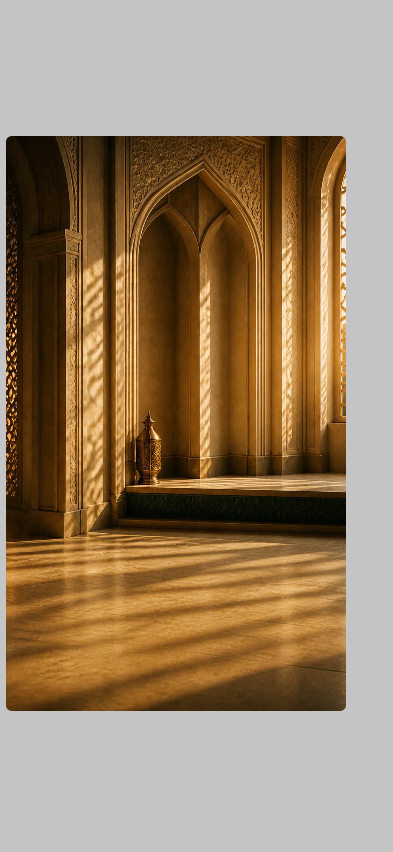
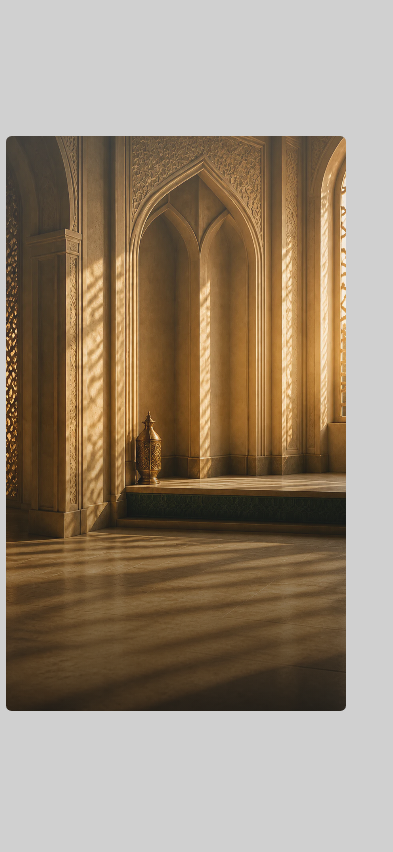
Align immersive Android home cover with reference framing

diff --git a/app/src/main/kotlin/com/starception/submission/feature/prayertimes/PrayerTimesScreen.kt b/app/src/main/kotlin/com/starception/submission/feature/prayertimes/PrayerTimesScreen.kt
@@ -3018,39 +3018,36 @@ fun PrayerTimesScreen(
                 val dynamicTopInset = statusBarInset * (1f - (syncState.wobbleIntensity * 2f).coerceAtMost(1f))
                 val darkHome = LocalDarkTheme.current
                 var coverPage by rememberSaveable { mutableIntStateOf(0) }
-                val nightArtwork = prayerTimes?.let {
-                    currentTime.isBefore(it.sunrise) || !currentTime.isBefore(it.maghrib)
-                } ?: (currentTime.hour < 6 || currentTime.hour >= 18)
                 Box(Modifier.fillMaxSize().background(if (darkHome) Color(0xFF0C110F) else Color.White)) {
                 if (!outerIsLandscape && darkHome) {
                     Image(
-                        painter = composeArtworkPainter(homeCoverArtwork(coverPage, nightArtwork)),
+                        painter = composeArtworkPainter(homeCoverArtwork(coverPage, darkHome)),
                         contentDescription = null,
                         contentScale = ContentScale.Crop,
                         modifier = Modifier.fillMaxSize(),
                     )
                     Box(Modifier.fillMaxSize().background(Brush.verticalGradient(
-                        0f to Color(0xFF071C30).copy(alpha = .48f),
-                        .50f to Color(0xFF0B1D2C).copy(alpha = .78f),
+                        0f to Color(0xFF071C30).copy(alpha = .20f),
+                        .50f to Color(0xFF0B1D2C).copy(alpha = .42f),
                         1f to Color(0xFF0C110F).copy(alpha = .97f),
                     )))
                 } else if (!outerIsLandscape) {
-                    // The light home keeps the same prayer identity as a soft
-                    // atmospheric layer; the readable canvas remains white.
+                    // Let the scene reach behind the system status bar and
+                    // toolbar, then dissolve it into the white lower feed.
                     Box(Modifier.fillMaxSize().background(Brush.verticalGradient(
                         0f to Color(0xFFFCFBFF),
                         .40f to Color(0xFFF8F7FC),
                         1f to Color.White,
                     )))
                     Image(
-                        painter = composeArtworkPainter(homeCoverArtwork(coverPage, nightArtwork)),
+                        painter = composeArtworkPainter(homeCoverArtwork(coverPage, darkHome)),
                         contentDescription = null,
                         contentScale = ContentScale.Crop,
-                        modifier = Modifier.fillMaxSize().graphicsLayer { alpha = 0.11f },
+                        modifier = Modifier.fillMaxSize(),
                     )
                     Box(Modifier.fillMaxSize().background(Brush.verticalGradient(
-                        0f to Color.White.copy(alpha = .42f),
-                        .48f to Color.White.copy(alpha = .87f),
+                        0f to Color.White.copy(alpha = .45f),
+                        .48f to Color.White.copy(alpha = .45f),
                         1f to Color.White,
                     )))
                 }
@@ -3672,7 +3669,7 @@ fun PrayerTimesScreen(
                                                     showCompassPopup = true
                                                 },
                                                 timeOffsets = storedOffsets,
-                                                portraitStripHeight = (configuration.screenHeightDp.dp * 0.72f)
+                                                portraitStripHeight = (configuration.screenHeightDp.dp * 0.69f)
                                                     .coerceIn(450.dp, 640.dp)
                                                     // Leave a real travel distance for the
                                                     // card-to-reader expansion on short phones.
@@ -3724,8 +3721,9 @@ fun PrayerTimesScreen(
                                             ) {
                                                 ImmersiveHomeCover(
                                                     selectedPage = coverPage,
-                                                    isNight = nightArtwork,
                                                     isDarkTheme = darkHome,
+                                                    sceneHeight = configuration.screenHeightDp.dp,
+                                                    sceneTopInset = dynamicTopInset + 56.dp,
                                                     nextPrayerName = PrayerTimeHelpers
                                                         .getNextPrayer(currentTime, prayerTimes)?.first.orEmpty(),
                                                     nextPrayerCountdown = PrayerTimeHelpers
@@ -3740,6 +3738,31 @@ fun PrayerTimesScreen(
                                         }
 
                                         if (!insightTileImmersive) {
+                                            Column(
+                                                modifier = Modifier.fillMaxWidth()
+                                                    .clickable {
+                                                        coverPage = 2
+                                                        feedPageRequest = 2 to ((feedPageRequest?.second ?: 0) + 1)
+                                                    }
+                                                    .padding(horizontal = 24.dp, vertical = 20.dp),
+                                                verticalArrangement = Arrangement.spacedBy(10.dp),
+                                            ) {
+                                                Box(
+                                                    Modifier.fillMaxWidth().height(1.dp).background(
+                                                        MaterialTheme.colorScheme.onBackground.copy(alpha = .22f),
+                                                    ),
+                                                )
+                                                Text(
+                                                    "TODAY'S READING",
+                                                    style = MaterialTheme.typography.labelSmall,
+                                                    color = MaterialTheme.colorScheme.onBackground.copy(alpha = .72f),
+                                                )
+                                                Text(
+                                                    "Spend a moment with the Quran",
+                                                    style = MaterialTheme.typography.titleLarge,
+                                                    color = MaterialTheme.colorScheme.onBackground,
+                                                )
+                                            }
                                             Spacer(Modifier.height(20.dp))
                                             HomeArtworkRail { card, source ->
                                                 if (morphRequest != null || insightTileExpanded) return@HomeArtworkRail

diff --git a/app/src/main/kotlin/com/starception/submission/feature/prayertimes/ImmersiveHomeCover.kt b/app/src/main/kotlin/com/starception/submission/feature/prayertimes/ImmersiveHomeCover.kt
@@ -5,10 +5,13 @@ import androidx.compose.foundation.background
 import androidx.compose.foundation.clickable
 import androidx.compose.foundation.layout.Arrangement
 import androidx.compose.foundation.layout.Box
+import androidx.compose.foundation.layout.BoxWithConstraints
 import androidx.compose.foundation.layout.Column
 import androidx.compose.foundation.layout.Row
 import androidx.compose.foundation.layout.fillMaxSize
 import androidx.compose.foundation.layout.fillMaxWidth
+import androidx.compose.foundation.layout.offset
+import androidx.compose.foundation.layout.requiredHeight
 import androidx.compose.foundation.layout.padding
 import androidx.compose.foundation.layout.size
 import androidx.compose.foundation.pager.HorizontalPager
@@ -22,6 +25,7 @@ import androidx.compose.runtime.rememberCoroutineScope
 import androidx.compose.ui.Alignment
 import androidx.compose.ui.Modifier
 import androidx.compose.ui.draw.clip
+import androidx.compose.ui.draw.clipToBounds
 import androidx.compose.ui.graphics.Brush
 import androidx.compose.ui.graphics.Color
 import androidx.compose.ui.layout.ContentScale
@@ -31,6 +35,7 @@ import androidx.compose.ui.text.font.FontWeight
 import androidx.compose.ui.text.style.TextAlign
 import androidx.compose.ui.text.style.TextOverflow
 import androidx.compose.ui.unit.dp
+import androidx.compose.ui.unit.Dp
 import androidx.compose.ui.unit.sp
 import com.starception.submission.core.images.resources.Res
 import com.starception.submission.core.images.resources.insight_prayer_background
@@ -43,8 +48,8 @@ import org.jetbrains.compose.resources.DrawableResource
 import org.jetbrains.compose.resources.painterResource
 import kotlinx.coroutines.launch
 
-internal fun homeCoverArtwork(page: Int, isNight: Boolean): DrawableResource = when (page) {
-    0 -> if (isNight) Res.drawable.prayer_now_insight_night else Res.drawable.prayer_now_insight_day
+internal fun homeCoverArtwork(page: Int, isDarkTheme: Boolean): DrawableResource = when (page) {
+    0 -> if (isDarkTheme) Res.drawable.prayer_now_insight_night else Res.drawable.prayer_now_insight_day
     1 -> Res.drawable.insight_prayer_background
     2 -> Res.drawable.insight_quran_background
     3 -> Res.drawable.insight_qibla_background
@@ -55,8 +60,9 @@ internal fun homeCoverArtwork(page: Int, isNight: Boolean): DrawableResource = w
 @Composable
 internal fun ImmersiveHomeCover(
     selectedPage: Int,
-    isNight: Boolean,
     isDarkTheme: Boolean,
+    sceneHeight: Dp,
+    sceneTopInset: Dp,
     nextPrayerName: String,
     nextPrayerCountdown: String,
     onSelectionChanged: (Int) -> Unit,
@@ -70,7 +76,11 @@ internal fun ImmersiveHomeCover(
     LaunchedEffect(pagerState.settledPage) { onSelectionChanged(pagerState.settledPage) }
     val ink = if (isDarkTheme) Color.White else Color(0xFF211C2B)
     val secondaryInk = ink.copy(alpha = if (isDarkTheme) .80f else .72f)
-    Box(Modifier.fillMaxSize()) {
+    BoxWithConstraints(Modifier.fillMaxSize()) {
+        // The reference leaves breathing room between the recommendation and
+        // the lower feed; anchoring both to the tile bottom puts them too low.
+        val copyBottom = maxHeight * .245f
+        val indicatorBottom = maxHeight * .20f
         HorizontalPager(state = pagerState, modifier = Modifier.fillMaxSize()) { page ->
             val (eyebrow, title, detail) = when (page) {
                 0 -> Triple("YOUR DAY", "A moment to pause",
@@ -81,12 +91,15 @@ internal fun ImmersiveHomeCover(
                 3 -> Triple("QIBLA", "Turn toward Makkah", "Find your direction")
                 else -> Triple("FOR THIS MOMENT", "A thought for today", "Explore a grounded suggestion")
             }
-            Box(Modifier.fillMaxSize().clickable { onOpen(page) }) {
+            Box(Modifier.fillMaxSize().clipToBounds().clickable { onOpen(page) }) {
                 Image(
-                    painter = painterResource(homeCoverArtwork(page, isNight)),
+                    painter = painterResource(homeCoverArtwork(page, isDarkTheme)),
                     contentDescription = null,
                     contentScale = ContentScale.Crop,
-                    modifier = Modifier.fillMaxSize(),
+                    // Match the image's crop above the reader, behind the toolbar.
+                    // Cropping each strip independently creates a visible seam.
+                    modifier = Modifier.fillMaxWidth().requiredHeight(sceneHeight)
+                        .offset(y = -sceneTopInset),
                 )
                 Box(Modifier.fillMaxSize().background(
                     if (isDarkTheme) Brush.verticalGradient(
@@ -101,7 +114,7 @@ internal fun ImmersiveHomeCover(
                 ))
                 Column(
                     Modifier.align(Alignment.BottomCenter).fillMaxWidth()
-                        .padding(start = 24.dp, end = 24.dp, bottom = 73.dp),
+                        .padding(start = 24.dp, end = 24.dp, bottom = copyBottom),
                     horizontalAlignment = Alignment.CenterHorizontally,
                     verticalArrangement = Arrangement.spacedBy(7.dp),
                 ) {
@@ -134,7 +147,7 @@ internal fun ImmersiveHomeCover(
             }
         }
         Row(
-            Modifier.align(Alignment.BottomCenter).padding(bottom = 38.dp),
+            Modifier.align(Alignment.BottomCenter).padding(bottom = indicatorBottom),
             horizontalArrangement = Arrangement.spacedBy(7.dp),
             verticalAlignment = Alignment.CenterVertically,
         ) {

diff --git a/app/src/testDemo/kotlin/com/starception/submission/feature/prayertimes/ImmersiveHomeCoverTest.kt b/app/src/testDemo/kotlin/com/starception/submission/feature/prayertimes/ImmersiveHomeCoverTest.kt
@@ -1,0 +1,58 @@
+package com.starception.submission.feature.prayertimes
+
+import android.app.Application
+import androidx.compose.foundation.layout.Box
+import androidx.compose.foundation.layout.fillMaxWidth
+import androidx.compose.foundation.layout.height
+import androidx.compose.material3.MaterialTheme
+import androidx.compose.material3.darkColorScheme
+import androidx.compose.runtime.CompositionLocalProvider
+import androidx.compose.ui.Modifier
+import androidx.compose.ui.platform.LocalInspectionMode
+import androidx.compose.ui.test.junit4.createComposeRule
+import androidx.compose.ui.test.onNodeWithText
+import androidx.compose.ui.test.onRoot
+import androidx.compose.ui.test.performClick
+import androidx.compose.ui.unit.dp
+import com.github.takahirom.roborazzi.captureRoboImage
+import org.junit.Assert.assertEquals
+import org.junit.Rule
+import org.junit.Test
+import org.junit.runner.RunWith
+import org.robolectric.RobolectricTestRunner
+import org.robolectric.annotation.Config
+import org.robolectric.annotation.GraphicsMode
+
+@RunWith(RobolectricTestRunner::class)
+@Config(application = Application::class, qualifiers = "w393dp-h852dp", sdk = [35])
+@GraphicsMode(GraphicsMode.Mode.NATIVE)
+class ImmersiveHomeCoverTest {
+    @get:Rule val compose = createComposeRule()
+
+    @OptIn(org.jetbrains.compose.resources.ExperimentalResourceApi::class)
+    @Test fun coverOpensTheMatchingReader() {
+        var openedPage = -1
+        compose.setContent {
+            CompositionLocalProvider(LocalInspectionMode provides true) {
+                org.jetbrains.compose.resources.PreviewContextConfigurationEffect()
+            }
+            MaterialTheme(colorScheme = darkColorScheme()) {
+                Box(Modifier.fillMaxWidth().height(588.dp)) {
+                    ImmersiveHomeCover(
+                        selectedPage = 0,
+                        isDarkTheme = true,
+                        sceneHeight = 852.dp,
+                        sceneTopInset = 80.dp,
+                        nextPrayerName = "Asr",
+                        nextPrayerCountdown = "1h 41m",
+                        onSelectionChanged = {},
+                        onOpen = { openedPage = it },
+                    )
+                }
+            }
+        }
+        compose.onRoot().captureRoboImage("src/testDemo/screenshots/immersive_home_cover.png")
+        compose.onNodeWithText("A moment to pause").performClick()
+        assertEquals(0, openedPage)
+    }
+}

diff --git a/app/src/main/kotlin/com/starception/submission/feature/prayertimes/SwipeableBigTiles.kt b/app/src/main/kotlin/com/starception/submission/feature/prayertimes/SwipeableBigTiles.kt
@@ -1454,11 +1454,17 @@ internal fun SwipeableBigTiles(
     var isSalahHadithLoading by remember { mutableStateOf(true) }
     var interactionEpoch by remember { mutableIntStateOf(0) }
     var isAutoAdvancing by remember { mutableStateOf(false) }
-    // Home intentionally reopens on the last expanded insight. The expansion
-    // target is now resolved once, so restoring this state is stable.
-    var expandedLogicalPage by rememberSaveable { mutableStateOf(persistedExpandedPage) }
-    var expansionExtent by rememberSaveable {
-        mutableFloatStateOf(if (persistedExpandedPage != null) 0.35f else 0f)
+    // The immersive home must always land on its artwork cover. Restoring an
+    // old expanded page hides that cover and reopens the legacy reader at launch.
+    var expandedLogicalPage by if (immersiveHome) {
+        remember { mutableStateOf<Int?>(null) }
+    } else {
+        rememberSaveable { mutableStateOf(persistedExpandedPage) }
+    }
+    var expansionExtent by if (immersiveHome) {
+        remember { mutableFloatStateOf(0f) }
+    } else {
+        rememberSaveable { mutableFloatStateOf(if (persistedExpandedPage != null) 0.35f else 0f) }
     }
     LaunchedEffect(collapseExpandedTileRequest) {
         // The host hands the enlarged tile's space to another section (for
@@ -1472,12 +1478,11 @@ internal fun SwipeableBigTiles(
     }
     LaunchedEffect(expandedLogicalPage) {
         onExpandedPageChange?.invoke(expandedLogicalPage)
-        carouselPreferences.edit()
-            .apply {
-                expandedLogicalPage?.let { putInt(INSIGHT_EXPANDED_PAGE_KEY, it) }
-                    ?: remove(INSIGHT_EXPANDED_PAGE_KEY)
-            }
-            .apply()
+        carouselPreferences.edit().apply {
+            if (immersiveHome) remove(INSIGHT_EXPANDED_PAGE_KEY)
+            else expandedLogicalPage?.let { putInt(INSIGHT_EXPANDED_PAGE_KEY, it) }
+                ?: remove(INSIGHT_EXPANDED_PAGE_KEY)
+        }.apply()
     }
     var pendingPrayerUndo by remember { mutableStateOf<PrayerUndoState?>(null) }
     val autoAdvanceProgress = remember { Animatable(0f) }

diff --git a/app/src/testDemo/kotlin/com/starception/submission/feature/prayertimes/HomeArtworkRailTest.kt b/app/src/testDemo/kotlin/com/starception/submission/feature/prayertimes/HomeArtworkRailTest.kt
@@ -48,8 +48,8 @@ class HomeArtworkRailTest {
             }
             MaterialTheme(colorScheme = darkColorScheme()) {
                 Column(Modifier.fillMaxSize().background(Color(0xFF0C110F)).padding(24.dp)) {
-                    HomeArtworkRail { page, _, bounds ->
-                        selected = page
+                    HomeArtworkRail { card, bounds ->
+                        selected = card.page
                         assertTrue(bounds.width > 0f && bounds.height > 0f)
                     }
                 }
@@ -73,9 +73,12 @@ class HomeArtworkRailTest {
                 org.jetbrains.compose.resources.PreviewContextConfigurationEffect()
             }
             ArtworkMorphOverlay(
-                ArtworkMorphRequest(1, Res.drawable.insight_prayer_background,
-                    Rect(24f, 320f, 190f, 488f), Rect(0f, 80f, 393f, 780f), 1),
-                finishing,
+                ArtworkMorphRequest(
+                    HomeArtworkCard(1, "Today's salah", "Prayer & hadith",
+                        Res.drawable.insight_prayer_background),
+                    Rect(24f, 320f, 190f, 488f), Rect(0f, 80f, 393f, 780f), 1, 0),
+                reversing = false,
+                onFinished = { finishing = true },
             )
         }
         compose.mainClock.advanceTimeBy(260)
@@ -83,9 +86,7 @@ class HomeArtworkRailTest {
         compose.onNodeWithTag("artworkMorphOverlay")
             .captureRoboImage("src/testDemo/screenshots/artwork_morph_mid.png")
         compose.mainClock.advanceTimeBy(300)
-        compose.onNodeWithTag("artworkMorphOverlay")
-            .captureRoboImage("src/testDemo/screenshots/artwork_morph_overlay.png")
-        compose.runOnIdle { finishing = true }
+        compose.runOnIdle { assertTrue(finishing) }
         compose.onNodeWithTag("artworkMorphOverlay").assertExists()
     }
 }
